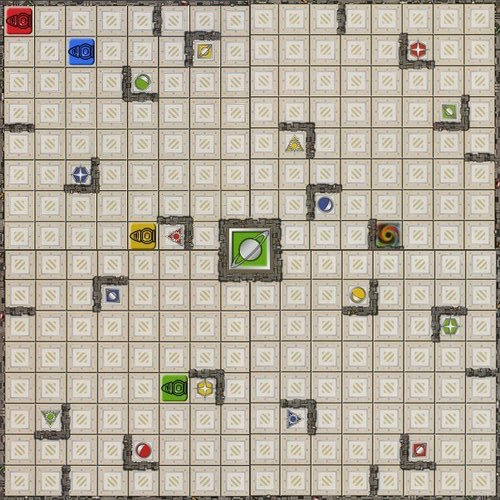
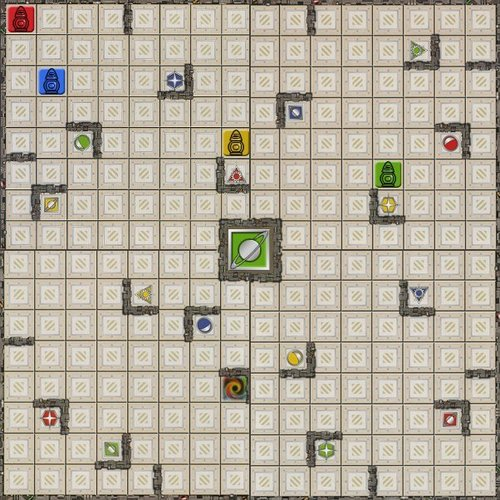
version 27/03/2016 robot moves

diff --git a/src/view/game/GridPanel.java b/src/view/game/GridPanel.java
@@ -145,24 +145,24 @@ public class GridPanel extends JPanel implements ComponentListener, Observer {
 		}
 
 		// On va remplir les murs en fonction de la valeur de grid[][]
-		for ( int yloop = 0 ; yloop < size_y ; yloop++ ){
-			for ( int xloop = 0 ; xloop < size_x ; xloop++ ){
-				int y = spriteLength*yloop;
-				int x = spriteLength*xloop;
+		for ( int ligne = 0 ; ligne < size_x ; ligne++ ){
+			for ( int colonne = 0 ; colonne < size_y ; colonne++ ){
+				int y = spriteLength*colonne;
+				int x = spriteLength*ligne;
 				int side1 = spriteLength;
 				int side2 = wallSpriteLength;
-				switch( this.grid[xloop][yloop].getValue() ){
+				switch( this.grid[colonne][ligne].getValue() ){
 				case 3: //angle en haut à droite
-					g2.drawImage(wallH,side1*xloop,y,side1,side2, this);
+					g2.drawImage(wallH,side1*ligne,y,side1,side2, this);
 					g2.drawImage(wallV,x+side1-side2,y,side2,side1, this);
 					break;
 				case 6: //angle en bas à droite
 					g2.drawImage(wallV,x+side1-side2,y,side2,side1, this);
-					g2.drawImage(wallH,x,side1*(yloop+1)-side2,side1,side2, this);
+					g2.drawImage(wallH,x,side1*(colonne+1)-side2,side1,side2, this);
 					break;
 				case 7: //murs haut/droite/bas
 					g2.drawImage(wallH,x,y,side1,side2, this);
-					g2.drawImage(wallH,x,side1*(yloop+1)-side2,side1,side2, this);
+					g2.drawImage(wallH,x,side1*(colonne+1)-side2,side1,side2, this);
 					g2.drawImage(wallV,x+side1-side2,y,side2,side1, this);
 					break;
 				case 9: //angle en haut à gauche
@@ -175,102 +175,102 @@ public class GridPanel extends JPanel implements ComponentListener, Observer {
 					g2.drawImage(wallH,x,y,side1,side2, this);
 					break;
 				case 12: //angle en bas à gauche
-					g2.drawImage(wallH,x,side1*(yloop+1)-side2,side1,side2, this);
+					g2.drawImage(wallH,x,side1*(colonne+1)-side2,side1,side2, this);
 					g2.drawImage(wallV,x,y,side2,side1, this);
 					break;
 				case 13: //murs haut/gauche/bas
 					g2.drawImage(wallH,x,y,side1,side2, this);
-					g2.drawImage(wallH,x,side1*(yloop+1)-side2,side1,side2, this);
+					g2.drawImage(wallH,x,side1*(colonne+1)-side2,side1,side2, this);
 					g2.drawImage(wallV,x,y,side2,side1, this);
 					break;
 				case 14: //murs gauche/bas/droit
 					g2.drawImage(wallV,x,y,side2,side1, this);
 					g2.drawImage(wallV,x+side1-side2,y,side2,side1, this);
-					g2.drawImage(wallH,x,side1*(yloop+1)-side2,side1,side2, this);
+					g2.drawImage(wallH,x,side1*(colonne+1)-side2,side1,side2, this);
 					break;
 				case 15: //murs partout
 					g2.drawImage(wallH,x,y,side1,side2, this);
 					g2.drawImage(wallV,x+side1-side2,y,side2,side1, this);
-					g2.drawImage(wallH,x,side1*(yloop+1)-side2,side1,side2, this);
+					g2.drawImage(wallH,x,side1*(colonne+1)-side2,side1,side2, this);
 					g2.drawImage(wallV,x,y,side2,side1, this);
 					break;
 				}
 			}
 		}
 		if(symbolsGrid != null){
-			for ( int y = 0; y < symbolsGrid.length; y++){
-				for ( int x = 0; x < symbolsGrid.length; x++ ){
+			for ( int y = 0; y < symbolsGrid[0].length; y++ ){
+				for ( int x = 0; x < symbolsGrid.length; x++){
 					int targetMargin = (spriteLength-targetSpriteLength)/2;
 					if(this.symbolsGrid[x][y] != null && this.symbolsGrid[x][y].getValue() != 0){
-						System.out.print("(Client:"+Debug.curName+")(GridPanel:paint) ["+x+","+y+"] = "+this.symbolsGrid[x][y] + " | ");
+						System.out.print("(Client:"+Debug.curName+")(GridPanel:paint) ["+x+","+y+"] = "+this.symbolsGrid[y][x] + " | ");
 						switch(this.symbolsGrid[x][y].getValue()){
 						// TARGET
 						case 99:
-							g2.drawImage(mainTargetSprite, spriteLength*x, spriteLength*y, spriteLength, spriteLength, this);
+							g2.drawImage(mainTargetSprite, spriteLength*y, spriteLength*x, spriteLength, spriteLength, this);
 							break;
 						// ROUGE
 						case 21:
-							g2.drawImage(redPawnSprite,spriteLength*x,spriteLength*y,spriteLength,spriteLength, this);
+							g2.drawImage(redPawnSprite,spriteLength*y,spriteLength*x,spriteLength,spriteLength, this);
 							break;
 						case 22:
-							g2.drawImage(redTarget1Sprite,spriteLength*x+targetMargin,spriteLength*y+targetMargin,spriteLength,spriteLength, this);
+							g2.drawImage(redTarget1Sprite,spriteLength*y+targetMargin,spriteLength*x+targetMargin,spriteLength,spriteLength, this);
 							break;
 						case 23:
-							g2.drawImage(redTarget2Sprite,spriteLength*x+targetMargin,spriteLength*y+targetMargin,spriteLength,spriteLength, this);
+							g2.drawImage(redTarget2Sprite,spriteLength*y+targetMargin,spriteLength*x+targetMargin,spriteLength,spriteLength, this);
 							break;
 						case 24:
-							g2.drawImage(redTarget3Sprite,spriteLength*x+targetMargin,spriteLength*y+targetMargin,spriteLength,spriteLength, this);
+							g2.drawImage(redTarget3Sprite,spriteLength*y+targetMargin,spriteLength*x+targetMargin,spriteLength,spriteLength, this);
 							break;
 						case 25:
-							g2.drawImage(redTarget4Sprite,spriteLength*x+targetMargin,spriteLength*y+targetMargin,spriteLength,spriteLength, this);
+							g2.drawImage(redTarget4Sprite,spriteLength*y+targetMargin,spriteLength*x+targetMargin,spriteLength,spriteLength, this);
 							break;
 						// BLEU
 						case 31:
-							g2.drawImage(bluePawnSprite,spriteLength*x,spriteLength*y,spriteLength,spriteLength, this);
+							g2.drawImage(bluePawnSprite,spriteLength*y,spriteLength*x,spriteLength,spriteLength, this);
 							break;
 						case 32:
-							g2.drawImage(blueTarget1Sprite,spriteLength*x+targetMargin,spriteLength*y+targetMargin,spriteLength,spriteLength, this);
+							g2.drawImage(blueTarget1Sprite,spriteLength*y+targetMargin,spriteLength*x+targetMargin,spriteLength,spriteLength, this);
 							break;
 						case 33:
-							g2.drawImage(blueTarget2Sprite,spriteLength*x+targetMargin,spriteLength*y+targetMargin,spriteLength,spriteLength, this);
+							g2.drawImage(blueTarget2Sprite,spriteLength*y+targetMargin,spriteLength*x+targetMargin,spriteLength,spriteLength, this);
 							break;
 						case 34:
-							g2.drawImage(blueTarget3Sprite,spriteLength*x+targetMargin,spriteLength*y+targetMargin,spriteLength,spriteLength, this);
+							g2.drawImage(blueTarget3Sprite,spriteLength*y+targetMargin,spriteLength*x+targetMargin,spriteLength,spriteLength, this);
 							break;
 						case 35:
-							g2.drawImage(blueTarget4Sprite,spriteLength*x+targetMargin,spriteLength*y+targetMargin,spriteLength,spriteLength, this);
+							g2.drawImage(blueTarget4Sprite,spriteLength*y+targetMargin,spriteLength*x+targetMargin,spriteLength,spriteLength, this);
 							break;
 						// VERT
 						case 41:
-							g2.drawImage(greenPawnSprite,spriteLength*x,spriteLength*y,spriteLength,spriteLength, this);
+							g2.drawImage(greenPawnSprite,spriteLength*y,spriteLength*x,spriteLength,spriteLength, this);
 							break;
 						case 42:
-							g2.drawImage(greenTarget1Sprite,spriteLength*x+targetMargin,spriteLength*y+targetMargin,spriteLength,spriteLength, this);
+							g2.drawImage(greenTarget1Sprite,spriteLength*y+targetMargin,spriteLength*x+targetMargin,spriteLength,spriteLength, this);
 							break;
 						case 43:
-							g2.drawImage(greenTarget2Sprite,spriteLength*x+targetMargin,spriteLength*y+targetMargin,spriteLength,spriteLength, this);
+							g2.drawImage(greenTarget2Sprite,spriteLength*y+targetMargin,spriteLength*x+targetMargin,spriteLength,spriteLength, this);
 							break;
 						case 44:
-							g2.drawImage(greenTarget3Sprite,spriteLength*x+targetMargin,spriteLength*y+targetMargin,spriteLength,spriteLength, this);
+							g2.drawImage(greenTarget3Sprite,spriteLength*y+targetMargin,spriteLength*x+targetMargin,spriteLength,spriteLength, this);
 							break;
 						case 45:
-							g2.drawImage(greenTarget4Sprite,spriteLength*x+targetMargin,spriteLength*y+targetMargin,spriteLength,spriteLength, this);
+							g2.drawImage(greenTarget4Sprite,spriteLength*y+targetMargin,spriteLength*x+targetMargin,spriteLength,spriteLength, this);
 							break;
 						// JAUNE
 						case 51:
-							g2.drawImage(yellowPawnSprite,spriteLength*x,spriteLength*y,spriteLength,spriteLength, this);
+							g2.drawImage(yellowPawnSprite,spriteLength*y,spriteLength*x,spriteLength,spriteLength, this);
 							break;
 						case 52:
-							g2.drawImage(yellowTarget1Sprite,spriteLength*x+targetMargin,spriteLength*y+targetMargin,spriteLength,spriteLength, this);
+							g2.drawImage(yellowTarget1Sprite,spriteLength*y+targetMargin,spriteLength*x+targetMargin,spriteLength,spriteLength, this);
 							break;
 						case 53:
-							g2.drawImage(yellowTarget2Sprite,spriteLength*x+targetMargin,spriteLength*y+targetMargin,spriteLength,spriteLength, this);
+							g2.drawImage(yellowTarget2Sprite,spriteLength*y+targetMargin,spriteLength*x+targetMargin,spriteLength,spriteLength, this);
 							break;
 						case 54:
-							g2.drawImage(yellowTarget3Sprite,spriteLength*x+targetMargin,spriteLength*y+targetMargin,spriteLength,spriteLength, this);
+							g2.drawImage(yellowTarget3Sprite,spriteLength*y+targetMargin,spriteLength*x+targetMargin,spriteLength,spriteLength, this);
 							break;
 						case 55:
-							g2.drawImage(yellowTarget4Sprite,spriteLength*x+targetMargin,spriteLength*y+targetMargin,spriteLength,spriteLength, this);
+							g2.drawImage(yellowTarget4Sprite,spriteLength*y+targetMargin,spriteLength*x+targetMargin,spriteLength,spriteLength, this);
 							break;
 						default:;
 						}
@@ -285,8 +285,8 @@ public class GridPanel extends JPanel implements ComponentListener, Observer {
 	public String toString(){
 		String rslt = "";
 
-		for(int y = 0; y < size_y; y++){
-			for(int x = 0; x < size_x; x++){
+		for(int x = 0; x < size_x; x++){
+			for(int y = 0; y < size_y; y++){
 				rslt += this.grid[x][y];
 				rslt += " ";
 			}
@@ -315,20 +315,38 @@ public class GridPanel extends JPanel implements ComponentListener, Observer {
 		this.size_x = newGrid[0].length;
 		this.size_y = newGrid[0][0].length;
 		this.grid = new Tile[size_x][size_y];
-		for(int i = 0; i < newGrid[0].length; i++){
-			for(int j = 0; j < newGrid[0][0].length; j++){
-				this.grid[i][j] = new Tile(i, j, newGrid[0][i][j]);
+		
+		for(int colonne = 0; colonne < newGrid[0].length; colonne++){
+			for(int ligne = 0; ligne < newGrid[0][0].length; ligne++){
+				this.grid[colonne][ligne] = new Tile(colonne, ligne, newGrid[0][colonne][ligne]);
 			}
 		}
 
 		if(newGrid[1] != null){
 			this.symbolsGrid = new Tile[size_x][size_y];
-			for(int i = 0; i < newGrid[1].length; i++){
-				for(int j = 0; j < newGrid[1][1].length; j++){
-					this.symbolsGrid[i][j] = new Tile(i, j, newGrid[1][i][j]);
+			for(int colonne = 0; colonne < newGrid[1].length; colonne++){
+				for(int ligne = 0; ligne < newGrid[1][0].length; ligne++){
+					this.symbolsGrid[colonne][ligne] = new Tile(colonne, ligne, newGrid[1][colonne][ligne]);
 				}
 			}
 		}
+		
+		System.out.println("AFTER THE UPDATE");
+		for(int ligne = 0; ligne < newGrid[0][0].length; ligne++){
+			for(int colonne = 0; colonne < newGrid[0].length; colonne++){
+				System.out.print(this.grid[colonne][ligne].getValue()+" ");
+			}
+			System.out.println();
+		}
+		if(newGrid[1] != null){
+			for(int ligne = 0; ligne < newGrid[1][0].length; ligne++){
+				for(int colonne = 0; colonne < newGrid[1].length; colonne++){
+					System.out.print(this.symbolsGrid[colonne][ligne].getValue()+" ");
+				}
+				System.out.println();
+			}
+		}
+
 		System.out.println("(Client:"+Debug.curName+")(GridPanel:update) END updating");
 		//placeColorRoles();
 		readSprites();

diff --git a/C/serveur.c b/C/serveur.c
@@ -313,7 +313,7 @@ int main(int argc, char* argv[]) {
         printf("(Server:serveur.c:main) : Thread %d created and ready\n", i);
     }
     printf("(Server:serveur.c:main) : Initialize server socket...\n");
-    int port = 2097;
+    int port = 2151;
     int socket_server;
     int socket_client;
     struct sockaddr_in server_address;
@@ -476,14 +476,28 @@ int setEnigma(){
             || (x_b == x_j && y_b == y_j) || (x_b == x_v && y_b == y_v) || (x_j == x_v && y_j == y_v));
 
         // Cible
-
+        int center1_x = (size_x-1) / 2;
+        int center1_y = (size_y-1) / 2;
+        int center2_x = (size_x-1) / 2 + 1;
+        int center2_y = (size_x-1) / 2;
+        int center3_x = (size_x-1) / 2;
+        int center3_y = (size_y-1) / 2 + 1;
+        int center4_x = (size_x-1) / 2 + 1;
+        int center4_y = (size_y-1) / 2 + 1;
+        
         x_cible = rand() % size_x;
         y_cible = rand() % size_y;
         while(grid[x_cible][y_cible] == 0
             || grid[x_cible][y_cible] == 1
             || grid[x_cible][y_cible] == 2
             || grid[x_cible][y_cible] == 4
-            || grid[x_cible][y_cible] == 8){
+            || grid[x_cible][y_cible] == 8
+            || grid[x_cible][y_cible] == 5
+            || grid[x_cible][y_cible] == 10
+            || (x_cible == center1_x && y_cible == center1_y)
+            || (x_cible == center2_x && y_cible == center2_y)
+            || (x_cible == center3_x && y_cible == center3_y)
+            || (x_cible == center4_x && y_cible == center4_y)){
             x_cible = rand() % size_x;
             y_cible = rand() % size_y;
         }

diff --git a/src/model/Model.java b/src/model/Model.java
@@ -55,6 +55,16 @@ public class Model {
 			i++;
 		}
 		
+		System.out.println("GRID AFTER RECEIVING FROM SERVEUR");
+		for(int ligne = 0; ligne < size_y; ligne++){
+			for(int colonne = 0; colonne < size_x; colonne++){
+				System.out.print(mat[colonne][ligne]+" ");
+			}
+			System.out.println();
+		}
+		
+		
+		
 		return mat;
 	}
 	
@@ -62,16 +72,16 @@ public class Model {
 		Integer v = 0;
 		switch(w){
 		case "H":
-			v = 8;
+			v = 1;
 			break;
 		case "D":
-			v = 4;
-			break;
-		case "B":
 			v = 2;
 			break;
+		case "B":
+			v = 4;
+			break;
 		case "G":
-			v = 1;
+			v = 8;
 			break;
 		default:;
 		}
@@ -107,12 +117,12 @@ public class Model {
 			int y = Integer.parseInt(y_str);
 
 			this.grid.setSymbol(x, y, getSymbolValue(robotColor));
+			System.out.println(robotColor+"["+x+","+y+"]" );
 		}
 		System.out.println("Target: "+tokens[tokens.length-1].charAt(0));
 	}
 	
 	private int getSymbolValue(char r){
-		System.out.println("get symbol "+r);
 		switch(r){
 		case 'r':
 			return 21;

diff --git a/C/grid.c b/C/grid.c
@@ -95,14 +95,14 @@ int readGridFromFile(char *filename) {
     sprintf(sizeInfo,"/%d/%d", size_x, size_y); 
     strcat(gridStr, sizeInfo);
             
-    /*
-    int i = 0, j = 0;
-    for(i = 0; i < size_x; i++){
-        for(j = 0; j < size_y; j++){
-            printf("%d ", grid[i][j]);
+    fprintf(stderr, "BEFORE SENDING GRID TO CLIENT\n");
+    int ligne = 0, colonne = 0;
+    for(colonne = 0; colonne < size_y; colonne++){
+        for(ligne = 0; ligne < size_x; ligne++){
+            printf("%d ", grid[colonne][ligne]);
         }
         printf("\n");
-    }*/
+    }
 
     // fprintf(stderr, "%s", gridStr);
 

diff --git a/src/communication/Client.java b/src/communication/Client.java
@@ -37,7 +37,7 @@ public class Client extends Observable implements Runnable {
 
 	private boolean connected = false;
 
-	private int port = 2097;
+	private int port = 2151;
 	private String hostname = "127.0.0.1";
 
 	public void connect() throws ConnectException, UnknownHostException, IOException {
